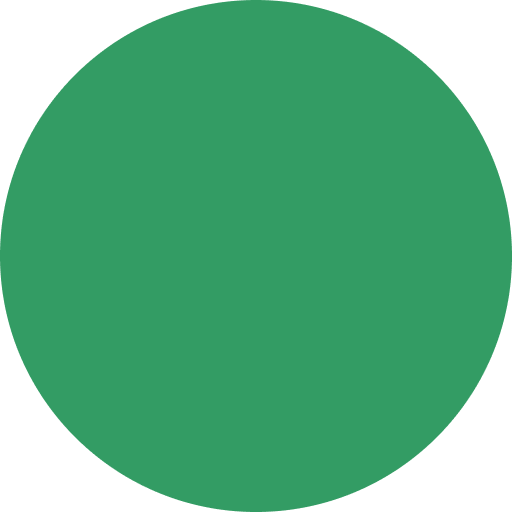
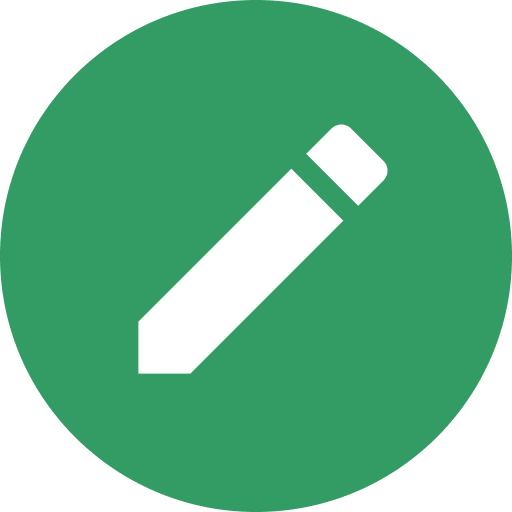
add-education-fix

Changed region(s): [[0.25, 0.2188, 0.7812, 0.75]]

diff --git a/src/Pages/EditEducation.js b/src/Pages/EditEducation.js
@@ -1,18 +1,58 @@
-import React, { useEffect, useState } from 'react'
-import './AddEducation.css'
+import React, { useEffect, useRef, useState } from 'react'
+import './EditEducation.css'
 import { dateMonth, dateYear } from './data/monthYear'
-const AddEducation = (props) => {
-  const { onBgClick } = props
+import { FiTrash } from 'react-icons/fi'
+import DeleteEducation from './DeleteEducation'
+const EditEducation = (props) => {
+  const { onBgEditClick, educationInfo, index, updateEducation } = props
+  const [isDeleteEducation, setIsDeleteEducation] = useState(null)
+  //DeleteEducation Page
+  function onDeleteEducationClick() {
+    setIsDeleteEducation(true)
+  }
+  function onBgEducationClick() {
+    setIsDeleteEducation(null)
+  }
+  let deleteEducation = null
+  if (!!isDeleteEducation) {
+    deleteEducation = (
+      <DeleteEducation onBgEducationClick={onBgEducationClick} />
+    )
+  }
+  const [editSchool, setEditSchool] = useState(educationInfo.school)
+  const [editDegree, setEditDegree] = useState(educationInfo.degree)
+  const [editField, setEditField] = useState(educationInfo.field)
+  const [editStartMonth, setEditStartMonth] = useState(educationInfo.startMonth)
+  const [editStartYear, setEditStartYear] = useState(educationInfo.startYear)
+  const [editEndMonth, setEditEndMonth] = useState(educationInfo.endMonth)
+  const [editEndYear, setEditEndYear] = useState(educationInfo.endYear)
 
   const [eduForm, setEduForm] = useState({
-    school: '',
-    degree: '',
-    field: '',
+    school: editSchool,
+    degree: editDegree,
+    field: editField,
     startMonth: '',
     startYear: '',
     endMonth: '',
     endYear: '',
   })
+
+  const updatingEducation = (e) => {
+    e.preventDefault()
+    const educationInfoUpdated = {
+      school: editSchool,
+      degree: editDegree,
+      field: editField,
+      startMonth: '',
+      startYear: '',
+      endMonth: '',
+      endYear: '',
+    }
+    updateEducation(educationInfoUpdated, index)
+  }
+
+  console.log(editStartMonth)
+  console.log('index', index)
   //check if local not defined
   if (localStorage.getItem('allEducation') === null) {
     localStorage.setItem('allEducation', JSON.stringify([]))
@@ -44,12 +84,12 @@ const AddEducation = (props) => {
   return (
     <main>
       <form className="add-education">
-        <div className="add-education-bg" onClick={onBgClick}></div>
+        <div className="add-education-bg" onClick={onBgEditClick}></div>
         <main className="add-education-inner">
           <header className="add-edu-header">
-            Add Education
+            Edit Education
             <button
-              onClick={onBgClick}
+              onClick={onBgEditClick}
               style={{
                 width: '16px',
                 height: '16px',
@@ -78,8 +118,8 @@ const AddEducation = (props) => {
               rows="1"
               cols="20"
               name="school"
-              value={eduForm.school}
-              onChange={onEduFormChange}
+              value={editSchool}
+              onChange={(e) => setEditSchool(e.target.value)}
               required
             />
           </section>
@@ -95,8 +135,8 @@ const AddEducation = (props) => {
               rows="1"
               cols="20"
               name="degree"
-              value={eduForm.degree}
-              onChange={onEduFormChange}
+              value={editDegree}
+              onChange={(e) => setEditDegree(e.target.value)}
             />
           </section>
           <section className="field-of-study">
@@ -111,8 +151,8 @@ const AddEducation = (props) => {
               rows="1"
               cols="20"
               name="field"
-              value={eduForm.field}
-              onChange={onEduFormChange}
+              vvalue={editField}
+              onChange={(e) => setEditField(e.target.value)}
             />
           </section>
           <section className="start-date">
@@ -123,8 +163,8 @@ const AddEducation = (props) => {
             <select
               className="start-month"
               name="startMonth"
-              value={eduForm.startMonth}
-              onChange={onEduFormChange}
+              //   value={editStartMonth}
+              //   onChange={(e) => setEditSchool(e.target.value)}
             >
               {dateMonth.map((option, index) => (
                 <option
@@ -183,19 +223,26 @@ const AddEducation = (props) => {
             </select>
           </section>
           <div className="footer-box">
+            <div
+              className="edit-edu-delete-edu"
+              onClick={onDeleteEducationClick}
+            >
+              <div className="edit-edu-delete-text">Delete Education</div>
+              <FiTrash size={18}></FiTrash>
+            </div>
             <button
-              className="add-edu-save-button"
+              className="edit-edu-save-button"
               type="submit"
-              onClick={onEduFormSubmit}
+              onClick={() => updatingEducation}
             >
               SAVE
             </button>
           </div>
         </main>
       </form>
-      {/* {deleteEducation} */}
+      {deleteEducation}
     </main>
   )
 }
 
-export default AddEducation
+export default EditEducation

diff --git a/src/Pages/UserInfo.js b/src/Pages/UserInfo.js
@@ -1,6 +1,7 @@
 import axios from 'axios'
 import React, { useEffect, useRef, useState } from 'react'
 import AddEducation from './AddEducation'
+import EditEducation from './EditEducation'
 import './UserInfo.css'
 
 const UserInfo = () => {
@@ -16,6 +17,7 @@ const UserInfo = () => {
       })
       .then((res) => {
         setUserData(res.data)
+        setAllEduForm(res.data.education)
         // console.log(res.data.user_name)
       })
       .catch((error) => {
@@ -31,7 +33,6 @@ const UserInfo = () => {
   const instagram = useRef()
   const facebook = useRef()
 
-  // console.log(userData.contact.ig)
   const editstyles = {
     border: '1px solid rgba(0, 0, 0, 1)',
   }
@@ -129,31 +130,97 @@ const UserInfo = () => {
       return true
     }
   }
-  const allEduForm = JSON.parse(localStorage.getItem('allEducation'))
-  const eduElements = allEduForm.map((theEdu) => {
-    return (
-      <section className="education-content">
-        <article className="education-school">
-          <div>{theEdu.school}</div>
-        </article>
 
-        <article className="education-degree-field">
-          {theEdu.degree}
-          {checkIsConnect(theEdu.degree, theEdu.field) ? ', ' : ''}
-          {theEdu.field}
-          {checkIsConnect(theEdu.field, theEdu.startMonth) ? ', ' : ''}
-          <span className="education-all-date">
-            {theEdu.startMonth}
-            {checkIsConnect(theEdu.startMonth, theEdu.startYear) ? ' ' : ''}
-            {theEdu.startYear}
-            {checkIsConnect(theEdu.startYear, theEdu.endMonth) ? ' - ' : ''}
-            {theEdu.endMonth}
-            {checkIsConnect(theEdu.endMonth, theEdu.endYear) ? ' ' : ''}
-            {theEdu.endYear}
-          </span>
-        </article>
-        <br />
-      </section>
+  //edit Education
+  const [isEditEducation, setIsEditEducation] = useState(null)
+  const [educationInfo, setEducationInfo] = useState(null)
+  const [educationUpdated, setEducationUpdated] = useState([{}])
+  const [indexEdit, setIndexEdit] = useState()
+  const updateEducation = (data, index) => {
+    setEducationUpdated((olddata) =>
+      olddata.map((tmp, idx) => (idx === index ? data : tmp))
+    )
+
+    console.log('update is ', educationUpdated)
+  }
+  function onEditEducationClick(theEdu, index) {
+    setIsEditEducation(true)
+    setEducationInfo(theEdu)
+    setIndexEdit(index)
+  }
+  function onBgEditClick() {
+    setIsEditEducation(null)
+    setEducationInfo(null)
+  }
+  let editEducation = null
+  if (!!isEditEducation) {
+    editEducation = (
+      <EditEducation
+        onBgEditClick={onBgEditClick}
+        educationInfo={educationInfo}
+        index={indexEdit}
+        updateEducation={updateEducation}
+      />
+    )
+  }
+
+  // {dateYear.map((option, index) => (
+  //   <option
+  //     key={index}
+  //     // value={option.value}
+  //   >
+  //     {option.text}
+  //   </option>
+  // ))}
+
+  // const allEduForm = JSON.parse(localStorage.getItem('allEducation'))
+  // const allEduForm = userData.education
+
+  //noting func
+  // function
+  const [allEduForm, setAllEduForm] = useState([{}])
+  const eduElements = allEduForm.map((theEdu, index) => {
+    return (
+      <div>
+        {allEduForm[0].school ? (
+          <section className="education-content">
+            <article
+              className="education-school"
+              // style={{ display: 'inline', whiteSpace: 'nowrap' }}
+            >
+              <span>{theEdu.school ? theEdu.school : ''}</span>
+              <img
+                src={require('../picture/editButton.png')}
+                alt="edit-button"
+                width="20px"
+                className="edit-education-button"
+                onClick={() => {
+                  onEditEducationClick(theEdu, index)
+                }}
+              />
+            </article>
+
+            <article className="education-degree-field">
+              {theEdu.degree ? theEdu.degree : ''}
+              {checkIsConnect(theEdu.degree, theEdu.field) ? ', ' : ''}
+              {theEdu.field ? theEdu.field : ''}
+              {checkIsConnect(theEdu.field, theEdu.startMonth) ? ', ' : ''}
+              <span className="education-all-date">
+                {theEdu.startMonth ? theEdu.startMonth : ''}
+                {checkIsConnect(theEdu.startMonth, theEdu.startYear) ? ' ' : ''}
+                {theEdu.startYear ? theEdu.startYear : ''}
+                {checkIsConnect(theEdu.startYear, theEdu.endMonth) ? ' - ' : ''}
+                {theEdu.endMonth ? theEdu.endMonth : ''}
+                {checkIsConnect(theEdu.endMonth, theEdu.endYear) ? ' ' : ''}
+                {theEdu.endYear ? theEdu.endMonth : ''}
+              </span>
+            </article>
+            <br />
+          </section>
+        ) : (
+          <div></div>
+        )}
+      </div>
     )
   })
 
@@ -408,6 +475,7 @@ const UserInfo = () => {
         </article>
       </section>
       {addEducation}
+      {editEducation}
     </main>
   )
 }

diff --git a/src/Pages/EditEducation.css b/src/Pages/EditEducation.css
@@ -82,13 +82,13 @@
   /* justify-content: center; */
 }
 
-.add-edu-delete-edu {
+.edit-edu-delete-edu {
   width: 150px;
   cursor: pointer;
   display: flex;
   margin-right: 60px;
 }
-.add-edu-save-button {
+.edit-edu-save-button {
   width: 100px;
   height: 40px;
   border-radius: 32px;
@@ -98,9 +98,6 @@
   box-shadow: 2px 2px 4px rgba(0, 0, 0, 0.25);
   background-color: #e7db73;
   cursor: pointer;
-  /* text-align: right; */
-  position: relative;
-  left: 213px;
 }
 
 .end-month,

diff --git a/src/Pages/UserInfo.css b/src/Pages/UserInfo.css
@@ -136,3 +136,7 @@
   width: 200px;
   height: 100px;
 }
+
+.edit-education-button {
+  cursor: pointer;
+}
